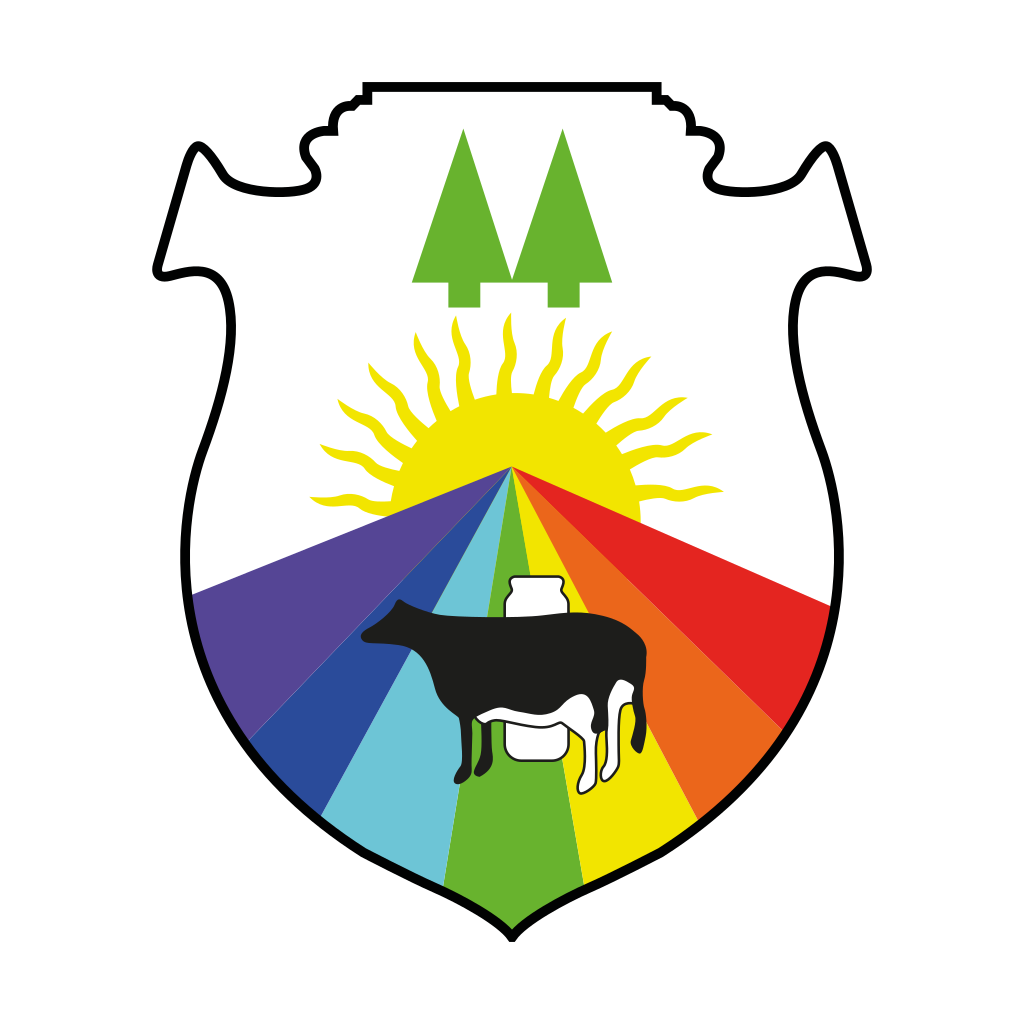
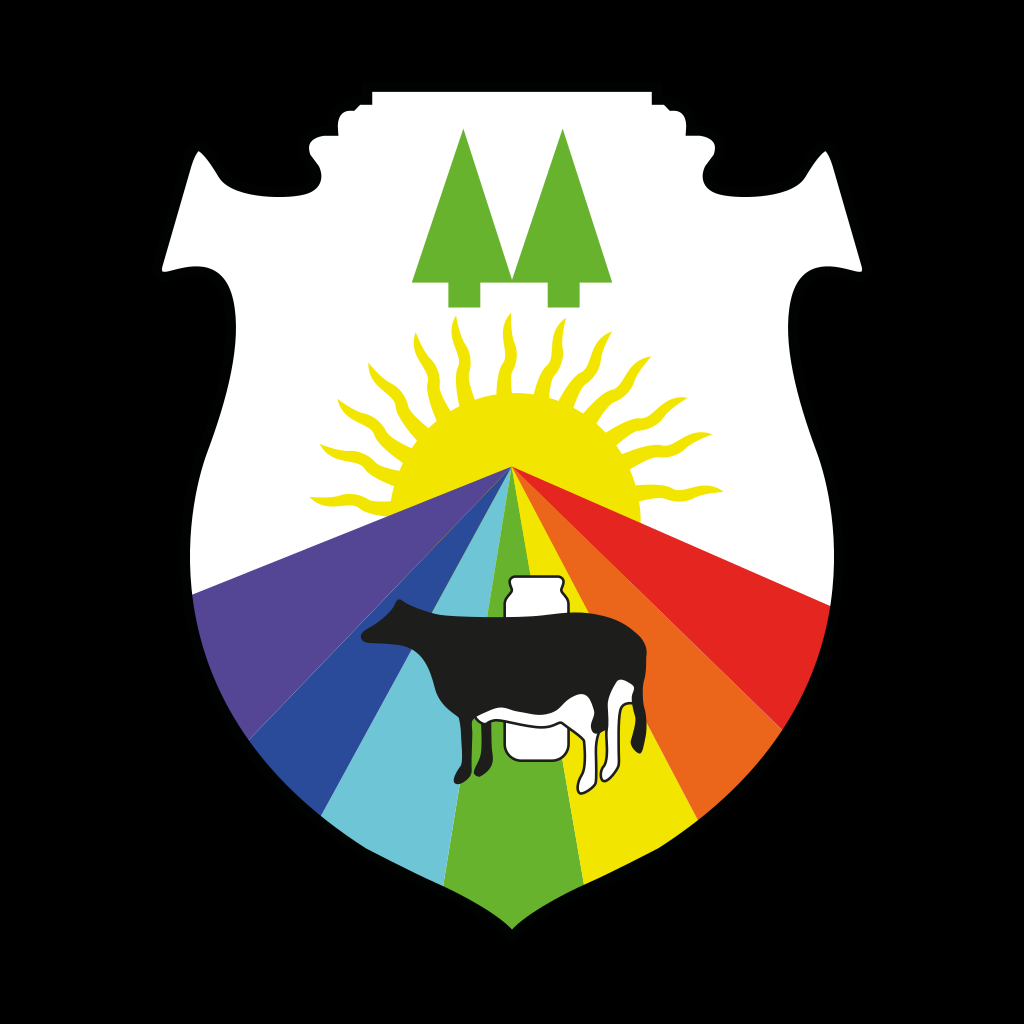
chore: update app version to 1.0.4, modify bundle identifier, and add distribution setting for production

diff --git a/features/realtime/prefetchOrchestrator.ts b/features/realtime/prefetchOrchestrator.ts
@@ -2,14 +2,14 @@ import { fetchArchivos } from '@/features/docs/services/archivosApi';
 import { fetchObjetivos } from '@/features/kanban/services/kanbanApi';
 import { fetchReportes } from '@/features/reportes/services/reportesApi';
 import {
-    getSolicitudesCreadas,
-    obtenerMisInvitaciones,
+  getSolicitudesCreadas,
+  obtenerMisInvitaciones,
 } from '@/features/solicitudesActividades/services/solicitudesApi';
 import {
-    getSaldosLicencia,
-    getSolicitudesLicencias,
-    getSolicitudesUsuario,
-    getTiposLicencia,
+  getSaldosLicencia,
+  getSolicitudesLicencias,
+  getSolicitudesUsuario,
+  getTiposLicencia,
 } from '@/features/solicitudesLicencias/services/solicitudesApi';
 import { QueryClient } from '@tanstack/react-query';
 import { RealtimeQueryKeys } from './querySync';
@@ -125,12 +125,6 @@ export async function prefetchCoreRealtimeData(
       reason: context.reason ?? 'unspecified',
       failedTasks: rejected.length,
       totalTasks: results.length,
-    });
-  } else {
-    console.log('[Prefetch] Core realtime prefetch completed', {
-      reason: context.reason ?? 'unspecified',
-      totalTasks: results.length,
-      role,
     });
   }
 }

diff --git a/app.config.ts b/app.config.ts
@@ -3,7 +3,7 @@ import { ConfigContext, ExpoConfig } from "expo/config";
 export default ({ config }: ConfigContext): ExpoConfig => ({
   name: "Italo Argentina",
   slug: "internoApp",
-  version: "1.0.3",
+  version: "1.0.4",
   orientation: "portrait",
   icon: "./assets/images/icon-1024.png",
   scheme: "internoapp",
@@ -14,7 +14,7 @@ export default ({ config }: ConfigContext): ExpoConfig => ({
       ? { googleServicesFile: process.env.GOOGLE_SERVICES_IOS }
       : {}),
     supportsTablet: true,
-    bundleIdentifier: "italoarg.com.ar",
+    bundleIdentifier: "ar.com.italoarg",
     infoPlist: {
       UIBackgroundModes: ["remote-notification"],
     },
@@ -30,7 +30,6 @@ export default ({ config }: ConfigContext): ExpoConfig => ({
       monochromeImage: "./assets/images/android-icon-monochrome.png",
     },
     edgeToEdgeEnabled: true,
-    permissions: ["android.permission.RECORD_AUDIO"],
   },
   web: {
     output: "static" as const,

diff --git a/features/devices/services/webPush.ts b/features/devices/services/webPush.ts
@@ -37,16 +37,12 @@ export async function getWebPushToken(): Promise<string | null> {
     const fcmMessaging = await messaging();
 
     if(fcmMessaging){
-      console.log('[WebPush] Obteniendo token de notificaciones push con vapid_key:' + Constants.expoConfig?.extra?.VAPID_PUBLIC_KEY);
       const vapidKey = Constants.expoConfig?.extra?.VAPID_PUBLIC_KEY;
       const token = await getToken(fcmMessaging, {
         vapidKey: vapidKey,
       });
-      console.log('[WebPush] Token obtenido:', token);
       return token;
     }
-
-    console.log('[WebPush] Messaging no soportado en este entorno');
 
     return null;
 

diff --git a/features/devices/hooks/useRegisterDevice.ts b/features/devices/hooks/useRegisterDevice.ts
@@ -122,8 +122,6 @@ export function useRegisterDevice(options: UseRegisterDeviceOptions = {}) {
           if (nextLink) {
             router.push(nextLink as any);
             onNotificationOpen?.(payload);
-          } else {
-            console.log('[Devices] Notificación recibida sin link:', payload);
           }
         };
       });

diff --git a/features/kanban/components/CrearObjetivo.tsx b/features/kanban/components/CrearObjetivo.tsx
@@ -542,9 +542,7 @@ export function FormObjetivoModal({
                                     </TouchableOpacity>
                                 </View>
 
-                                {/* TODO: renderizar lista de archivos enlazados */}
                                 <View style={styles.inviteList}>
-                                    {/* TODO: item de archivo con boton abrir */}
                                     <View style={{ width: '100%', flexDirection: 'column', gap: 8 }}>
                                         {pickedFiles && pickedFiles.length > 0 ? (
                                             pickedFiles.map((file, index) => (

diff --git a/docs/ios-production-audit.md b/docs/ios-production-audit.md
@@ -1,0 +1,150 @@
+# iOS Production Readiness Audit
+
+**Date:** 2026-05-19
+**Expo SDK:** ~54.0.33 (from package.json)
+**EAS Profile audited:** production
+
+## Summary
+
+| Area | Status |
+|------|--------|
+| App identity | Needs confirmation |
+| EAS Build configuration | Needs confirmation |
+| Icons and splash screen | Pass |
+| Permissions | Needs confirmation |
+| Environment variables and secrets | Pass |
+| Dependencies | Pass |
+| App Store metadata | Pass |
+| OTA updates | Pass |
+| Debug artifacts | Pass |
+| Source code build hygiene | Pass |
+
+## Detail
+
+### 1. App identity
+
+- **bundleIdentifier:** `"ar.com.italoarg"` — Pass. Reverse-domain notation aligned to `italoarg.com.ar`. Evidence: `app.config.ts` → `ios.bundleIdentifier`.
+- **name:** `"Italo Argentina"` — Pass. Evidence: `app.config.ts` → `name`.
+- **slug:** `"internoApp"` — Pass. Consistent with `package.json` `name: "internoapp"`. Evidence: `app.config.ts` → `slug`.
+- **version:** `"1.0.4"` — Pass. Valid semver. Evidence: `app.config.ts` → `version` and `package.json` → `version`.
+- **buildNumber / ios.buildNumber:** Not set in `app.config.ts`. The `eas.json` production profile has `"autoIncrement": true` and the CLI section has `"appVersionSource": "remote"`, meaning EAS manages the build number remotely. — **Needs confirmation.** Cannot verify the current remote value or that a prior iOS build exists. Confirm via `eas build:list --platform ios` before submitting.
+
+---
+
+### 2. EAS Build configuration
+
+- **production profile exists:** Yes — Pass. Evidence: `eas.json` → `build.production`.
+- **distribution:** `"store"` — Pass. Explicitly set for production. Evidence: `eas.json` → `build.production.distribution`.
+- **autoIncrement:** `true` — Pass. Evidence: `eas.json` → `build.production.autoIncrement`.
+- **appVersionSource:** `"remote"` — Pass. Centralized version management. Evidence: `eas.json` → `cli.appVersionSource`.
+- **Credentials source:** Not set in `eas.json`. EAS defaults to its own remote credential storage (Expo-managed). — **Needs confirmation.** Verify that iOS distribution certificate and provisioning profile have been generated and are available in EAS (`eas credentials`). Evidence: `eas.json` → `build.production` (no `credentialsSource` field).
+
+---
+
+### 3. Icons and splash screen
+
+- **ios.icon (explicit):** Not set under the `ios` key. Expo falls back to the top-level `icon` field for iOS. Evidence: `app.config.ts` → `icon: "./assets/images/icon-1024.png"` (top-level); `ios` section has no `icon` key.
+- **Icon file exists:** `./assets/images/icon-1024.png` is present on disk — Pass.
+- **Icon dimensions:** 1024×1024 — Pass. Verified with `file` command output.
+- **Icon transparency:** Pass. The PNG was converted to RGB (no alpha channel) for App Store compliance.
+- **Splash screen image:** Configured via `expo-splash-screen` plugin with `image: "./assets/images/icon-1024.png"` — Pass. File exists.
+- **Splash resizeMode:** `"contain"` — Pass. Evidence: `app.config.ts` → `plugins` → `expo-splash-screen` → `resizeMode`.
+
+---
+
+### 4. Permissions
+
+- **UIBackgroundModes:** `["remote-notification"]` declared — Pass. Appropriate for push notifications. Evidence: `app.config.ts` → `ios.infoPlist.UIBackgroundModes`.
+- **expo-image-picker permissions:** The plugin is listed under `plugins` and auto-injects `NSPhotoLibraryUsageDescription` and `NSCameraUsageDescription` into the generated `Info.plist`. — **Needs confirmation.** These strings are plugin-generated and cannot be verified from static file reading alone. Confirm by running `npx expo config --platform ios` and inspecting the output.
+- **Microphone / RECORD_AUDIO:** Audio recording is not used and no Android `RECORD_AUDIO` permission is present. iOS does not need `NSMicrophoneUsageDescription` for this build.
+- **GOOGLE_SERVICES_IOS / Firebase on iOS:** Firebase native iOS SDK integration is not required. `expo-notifications` + APNs is the only native channel. `GOOGLE_SERVICES_IOS` remains unset by design.
+
+---
+
+### 5. Environment variables and secrets
+
+**.env keys found (values not shown):**
+- `API_BASE_URL`
+- `FIREBASE_API_KEY`
+- `FIREBASE_APP_ID`
+- `FIREBASE_AUTH_DOMAIN`
+- `FIREBASE_MESSAGING_SENDER_ID`
+- `FIREBASE_PROJECT_ID`
+- `FIREBASE_STORAGE_BUCKET`
+- `FIREBASE_VAPID_PUBLIC_KEY`
+- `GOOGLE_SERVICES_JSON`
+- `VITE_FEATURE_FOLDERS`
+
+**.env.local keys found (values not shown):**
+- `API_BASE_URL`
+- `FIREBASE_VAPID_PUBLIC_KEY`
+- `GOOGLE_SERVICES_JSON`
+
+**.eas/.env/ contents:**
+- `GOOGLE_SERVICES_JSON` (single file, 673 bytes — appears to be the Android Google Services JSON file stored for EAS build injection)
+
+**Findings:**
+- `app.config.ts` → `extra` exposes `API_BASE_URL` (a URL, not a secret) and `VAPID_PUBLIC_KEY` (a VAPID public key, designed to be public) — Pass. No secret values in `extra`.
+- **Pass (documented).** Firebase configuration is hardcoded directly in `features/devices/services/webPush.ts` for **web-only** FCM usage. This is intentional and aligns with the decision to avoid native Firebase on iOS. The `.env` values remain unused for this path.
+
+---
+
+### 6. Dependencies
+
+- **expo SDK pinned:** `"expo": "~54.0.33"` — Pass. Uses `~` (patch-range pin).
+- **react-native version compatibility:** `"react-native": "0.81.5"` — Pass. Expo SDK 54 targets React Native 0.81 (Expo docs table for SDK 54).
+- **Pre-release packages in dependencies:** No packages with `alpha`, `beta`, `rc`, or `canary` in their version string were found in `dependencies` — Pass.
+- **expo-dev-client in production dependencies:** `"expo-dev-client": "~6.0.20"` is in `dependencies`, not `devDependencies`. Because the EAS production profile does not set `developmentClient: true`, the development client features are inactive at runtime in production builds. This is an accepted Expo pattern for managed workflow. — Pass (with note: if bundle size is a concern, this can be moved to `devDependencies` for production profiles that do not use it).
+
+---
+
+### 7. App Store metadata
+
+- **ios.supportsTablet:** `true` — Pass. Evidence: `app.config.ts` → `ios.supportsTablet`.
+- **ios.requireFullScreen:** Not set — Pass. iPad multitasking is supported by design. Evidence: `app.config.ts` → `ios` (field absent).
+- **userInterfaceStyle:** `"automatic"` — Pass. Evidence: `app.config.ts` → `userInterfaceStyle`.
+- **orientation:** `"portrait"` — Pass. Evidence: `app.config.ts` → `orientation`.
+
+---
+
+### 8. OTA updates
+
+- **expo-updates present:** `"expo-updates": "~29.0.16"` in `dependencies` — Pass.
+- **updates.url:** `"https://u.expo.dev/f7cef901-9e89-441f-8cb3-ceb9c01a8b6c"` — Pass. Points to the EAS Update production endpoint for this project. Evidence: `app.config.ts` → `updates.url`.
+- **updates.fallbackToCacheTimeout:** Not set — Pass. SDK 54 default behavior is accepted (launch cached, check in background).
+- **runtimeVersion policy:** `"appVersion"` — Pass. Ensures OTA updates are only delivered to builds with the same app version. Evidence: `app.config.ts` → `runtimeVersion.policy`.
+
+---
+
+### 9. Debug artifacts
+
+**console.log calls found:** None in `.ts`/`.tsx` source.
+
+**debugger calls:** None found — Pass.
+**Hardcoded localhost / 127.0.0.1:** None found in source files — Pass.
+
+---
+
+### 10. Source code build hygiene
+
+**TODO / FIXME comments found in source (`.ts`, `.tsx` files):** None.
+
+**Hardcoded local URLs:** None found — Pass.
+
+**TypeScript compilation errors (inferable from static reading):** None identified — Pass.
+
+---
+
+## Blocked Items
+
+None currently identified.
+
+---
+
+## Needs Confirmation
+
+1. **App identity — ios.buildNumber / autoIncrement:** Confirm the current remote build number via `eas build:list --platform ios`. Confirm that the number will be correctly incremented on the next production build.
+
+2. **EAS Build configuration — credentials:** Run `eas credentials` and confirm that an iOS Distribution Certificate and App Store Provisioning Profile are active and not expired.
+
+3. **Permissions — expo-image-picker auto-injected strings:** Run `npx expo config --type prebuild --json` and verify `NSPhotoLibraryUsageDescription` and `NSCameraUsageDescription` appear in the resolved config output.